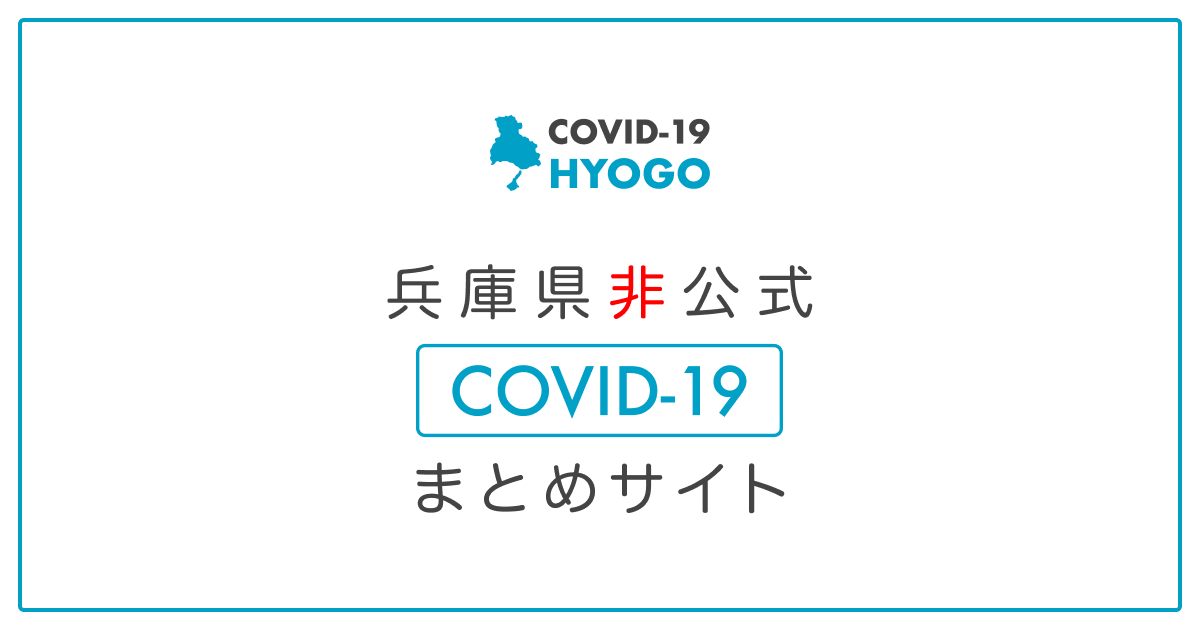
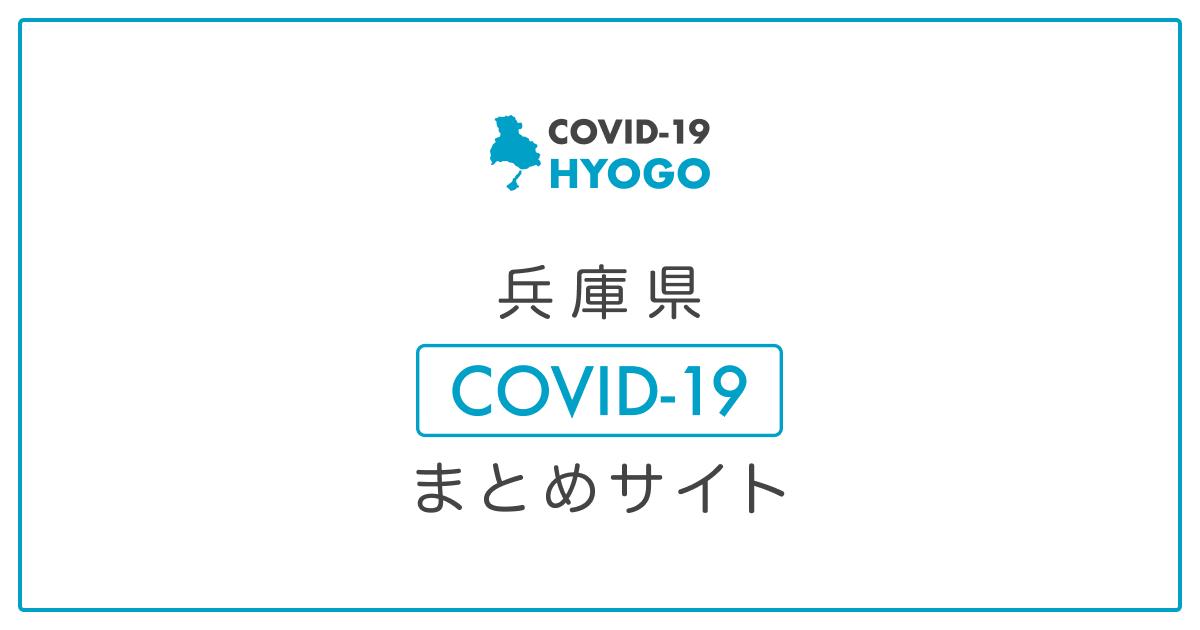
update site name

Changed region(s): [[0.3083, 0.4222, 0.6783, 0.5127]]

diff --git a/layouts/default.vue b/layouts/default.vue
@@ -134,7 +134,7 @@ export default Vue.extend({
           hid: 'og:site_name',
           property: 'og:site_name',
           content:
-            this.$t('兵庫県非公式') +
+            this.$t('兵庫県') +
             ' ' +
             this.$t('新型コロナウイルス') +
             ' ' +
@@ -150,7 +150,7 @@ export default Vue.extend({
           hid: 'og:title',
           property: 'og:title',
           content:
-            this.$t('兵庫県非公式') +
+            this.$t('兵庫県') +
             ' ' +
             this.$t('新型コロナウイルス') +
             ' ' +
@@ -178,7 +178,7 @@ export default Vue.extend({
           hid: 'apple-mobile-web-app-title',
           name: 'apple-mobile-web-app-title',
           content:
-            this.$t('兵庫県非公式') +
+            this.$t('兵庫県') +
             ' ' +
             this.$t('新型コロナウイルス') +
             ' ' +

diff --git a/nuxt.config.ts b/nuxt.config.ts
@@ -15,7 +15,7 @@ const config: Configuration = {
     htmlAttrs: {
       prefix: 'og: http://ogp.me/ns#'
     },
-    titleTemplate: '%s | 兵庫県非公式 新型コロナウイルスまとめサイト',
+    titleTemplate: '%s | 兵庫県 新型コロナウイルスまとめサイト',
     meta: [
       { charset: 'utf-8' },
       { name: 'viewport', content: 'width=device-width, initial-scale=1' },
@@ -160,7 +160,7 @@ const config: Configuration = {
     // hardSource: process.env.NODE_ENV === 'development'
   },
   manifest: {
-    name: '兵庫県非公式 新型コロナウイルスまとめサイト',
+    name: '兵庫県 新型コロナウイルスまとめサイト',
     theme_color: '#01a0c7',
     background_color: '#ffffff',
     display: 'standalone',

diff --git a/components/DataView.vue b/components/DataView.vue
@@ -286,7 +286,7 @@ export default Vue.extend({
         'https://twitter.com/intent/tweet?text=' +
         this.title +
         ' / ' +
-        this.$t('兵庫県非公式') +
+        this.$t('兵庫県') +
         this.$t('新型コロナウイルス感染症') +
         this.$t('まとめサイト') +
         '&url=' +

diff --git a/components/SideNavigation.vue b/components/SideNavigation.vue
@@ -14,7 +14,7 @@
             class="SideNavigation-HeaderLogo"
             src="/logo.svg"
             width="110"
-            :alt="$t('兵庫県非公式')"
+            :alt="$t('兵庫県')"
           />
           <div class="SideNavigation-HeaderText">
             {{ $t('menu/新型コロナウイルス') }}<br />{{

diff --git a/pages/index.vue b/pages/index.vue
@@ -121,7 +121,7 @@ export default Vue.extend({
   },
   head(): MetaInfo {
     return {
-      title: this.$t('兵庫県非公式 新型コロナウイルスまとめサイト') as string,
+      title: this.$t('兵庫県 新型コロナウイルスまとめサイト') as string,
       titleTemplate: ''
     }
   }

diff --git a/pages/cards/_card.vue b/pages/cards/_card.vue
@@ -190,7 +190,7 @@ export default {
           content:
             this.title +
             ' | ' +
-            this.$t('兵庫県非公式') +
+            this.$t('兵庫県') +
             ' ' +
             this.$t('新型コロナウイルス') +
             this.$t('まとめサイト')

diff --git a/README.md b/README.md
@@ -1,8 +1,8 @@
-# 兵庫県非公式 新型コロナウイルスまとめサイト
+# 兵庫県 新型コロナウイルスまとめサイト
 
 ![](https://github.com/stop-covid19-hyogo/covid19/workflows/production%20deploy/badge.svg)
 
-[![兵庫県非公式 新型コロナウイルスまとめサイト](https://user-images.githubusercontent.com/43156990/77025400-53e94080-69d4-11ea-9978-18c715f4925d.png)](https://stop-covid19-hyogo.org/)
+[![兵庫県 新型コロナウイルスまとめサイト](https://user-images.githubusercontent.com/2575204/80415970-4c3f8480-890e-11ea-8e6f-5d6f5d8d63b4.png)](https://stop-covid19-hyogo.org/)
 
 <!--
 ### 日本語 | [English](./docs/en/README.md) | [Español](./docs/es/README.md) | [한국어](./docs/ko/README.md) | [繁體中文](./docs/zh_TW/README.md) | [简体中文](./docs/zh_CN/README.md) | [Tiếng Việt](./docs/vi/README.md) | [ภาษาไทย](./docs/th/README.md) | [Français](./docs/fr/README.md)

diff --git a/CONTRIBUTING.md b/CONTRIBUTING.md
@@ -195,6 +195,6 @@ JSON データは、兵庫県のホームページに公開されている以下
 
 ```
 【*/* Twitter投稿】
-【データ更新】兵庫県が2020/0*/**に公表した、最新感染動向データを、兵庫県非公式コロナウイルスまとめサイトに反映しました。
+【データ更新】兵庫県が2020/0*/**に公表した、最新感染動向データを、兵庫県コロナウイルスまとめサイトに反映しました。
 <<https://stop-covid19-hyogo.org/>>　#StopCovid19Hyogo #StopCovid19JP #兵庫コロナ情報
 ```
